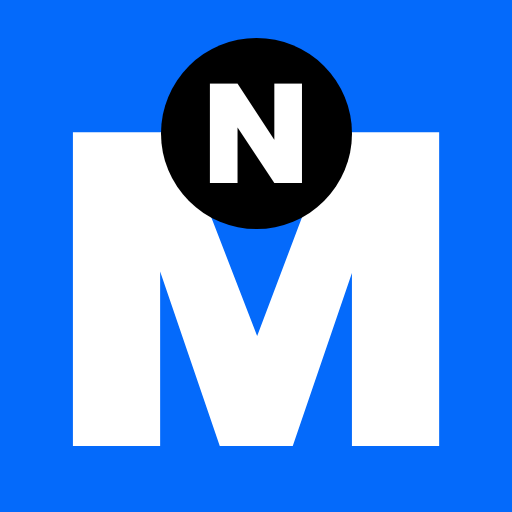
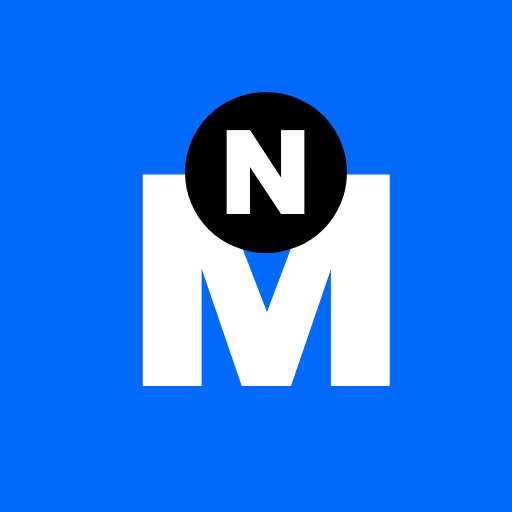
v28
change icon size

diff --git a/login.html b/login.html
@@ -28,7 +28,7 @@
         </div>       
       </form>
     </div>
-    <div id="versionNumber">v27</div> 
+    <div id="versionNumber">v28</div> 
     <footer>
       <script src="./login.js"></script>
       <script src="./sw.js"></script>

diff --git a/sw.js b/sw.js
@@ -1,4 +1,4 @@
-var CACHE_VERSION = "v26";
+var CACHE_VERSION = "v28";
 var CACHE = "neo-manager-" + CACHE_VERSION;
 
 // Call install event
